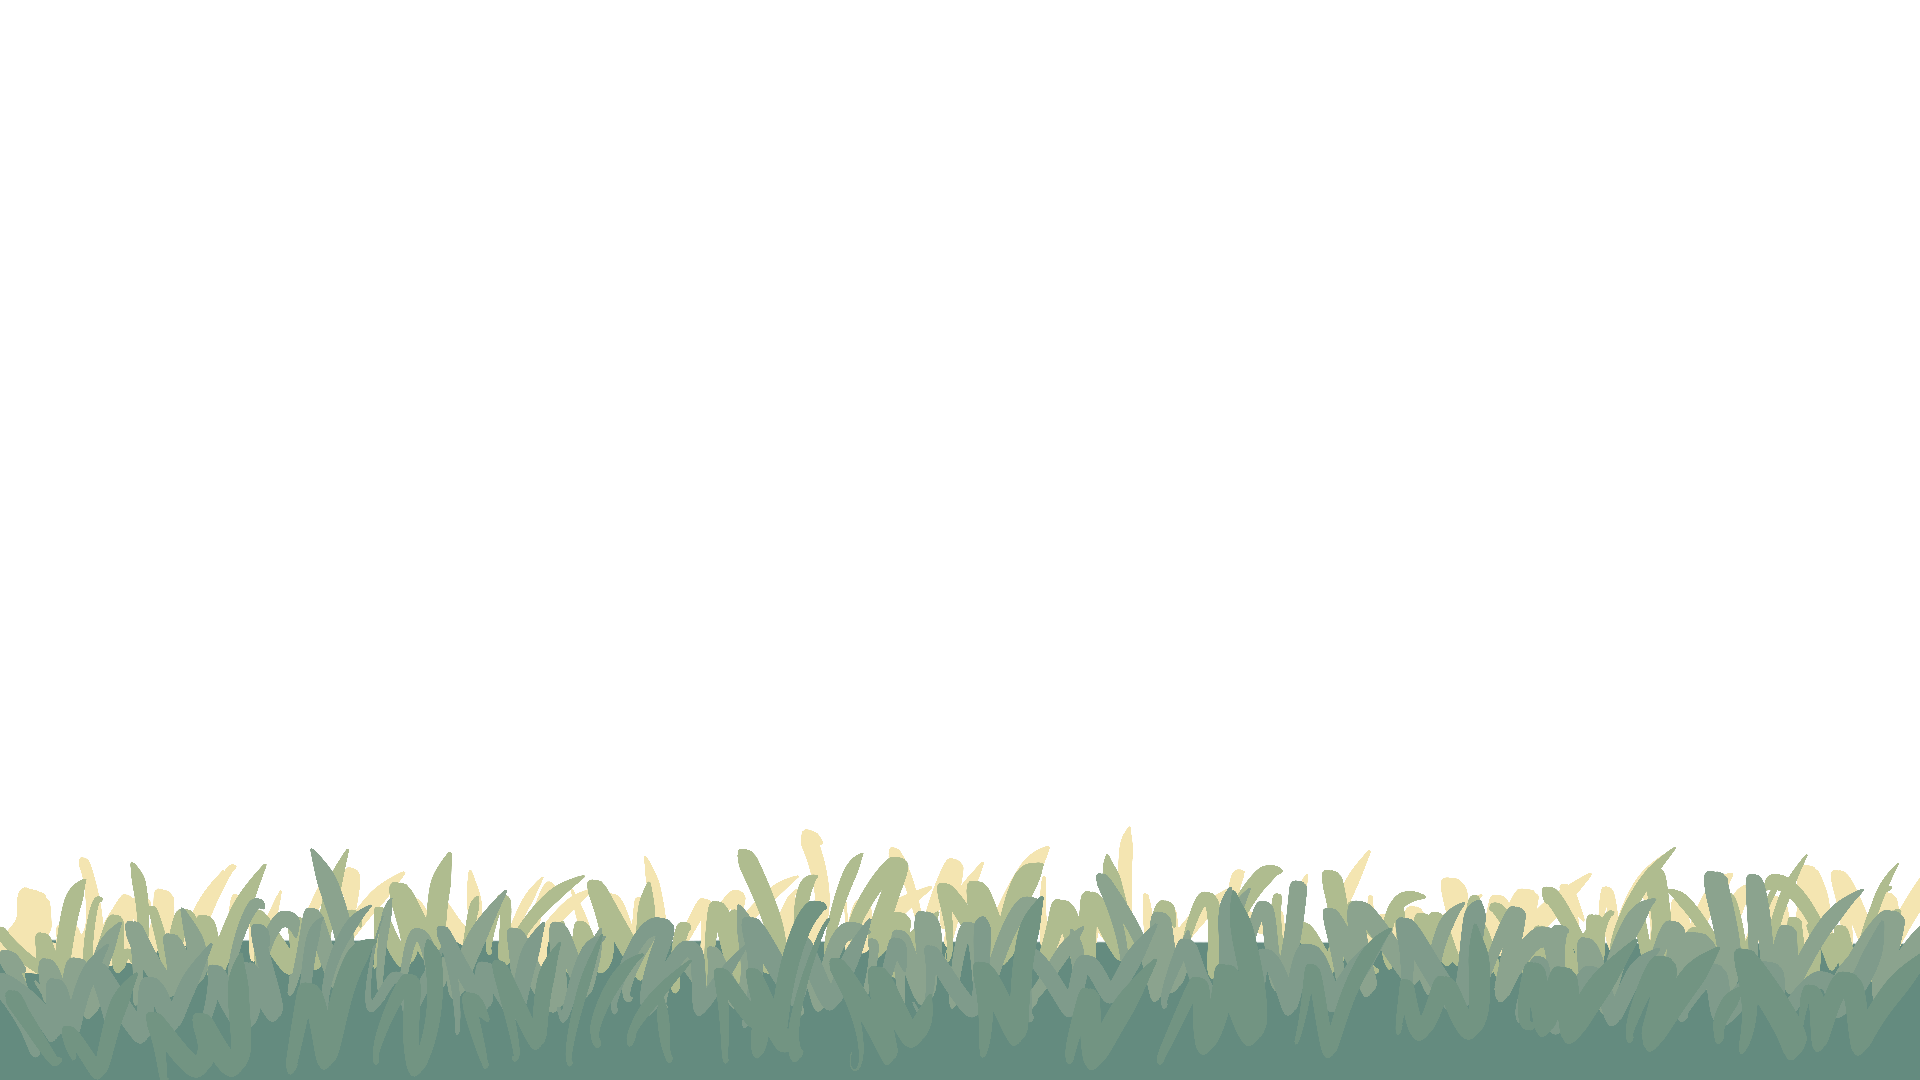
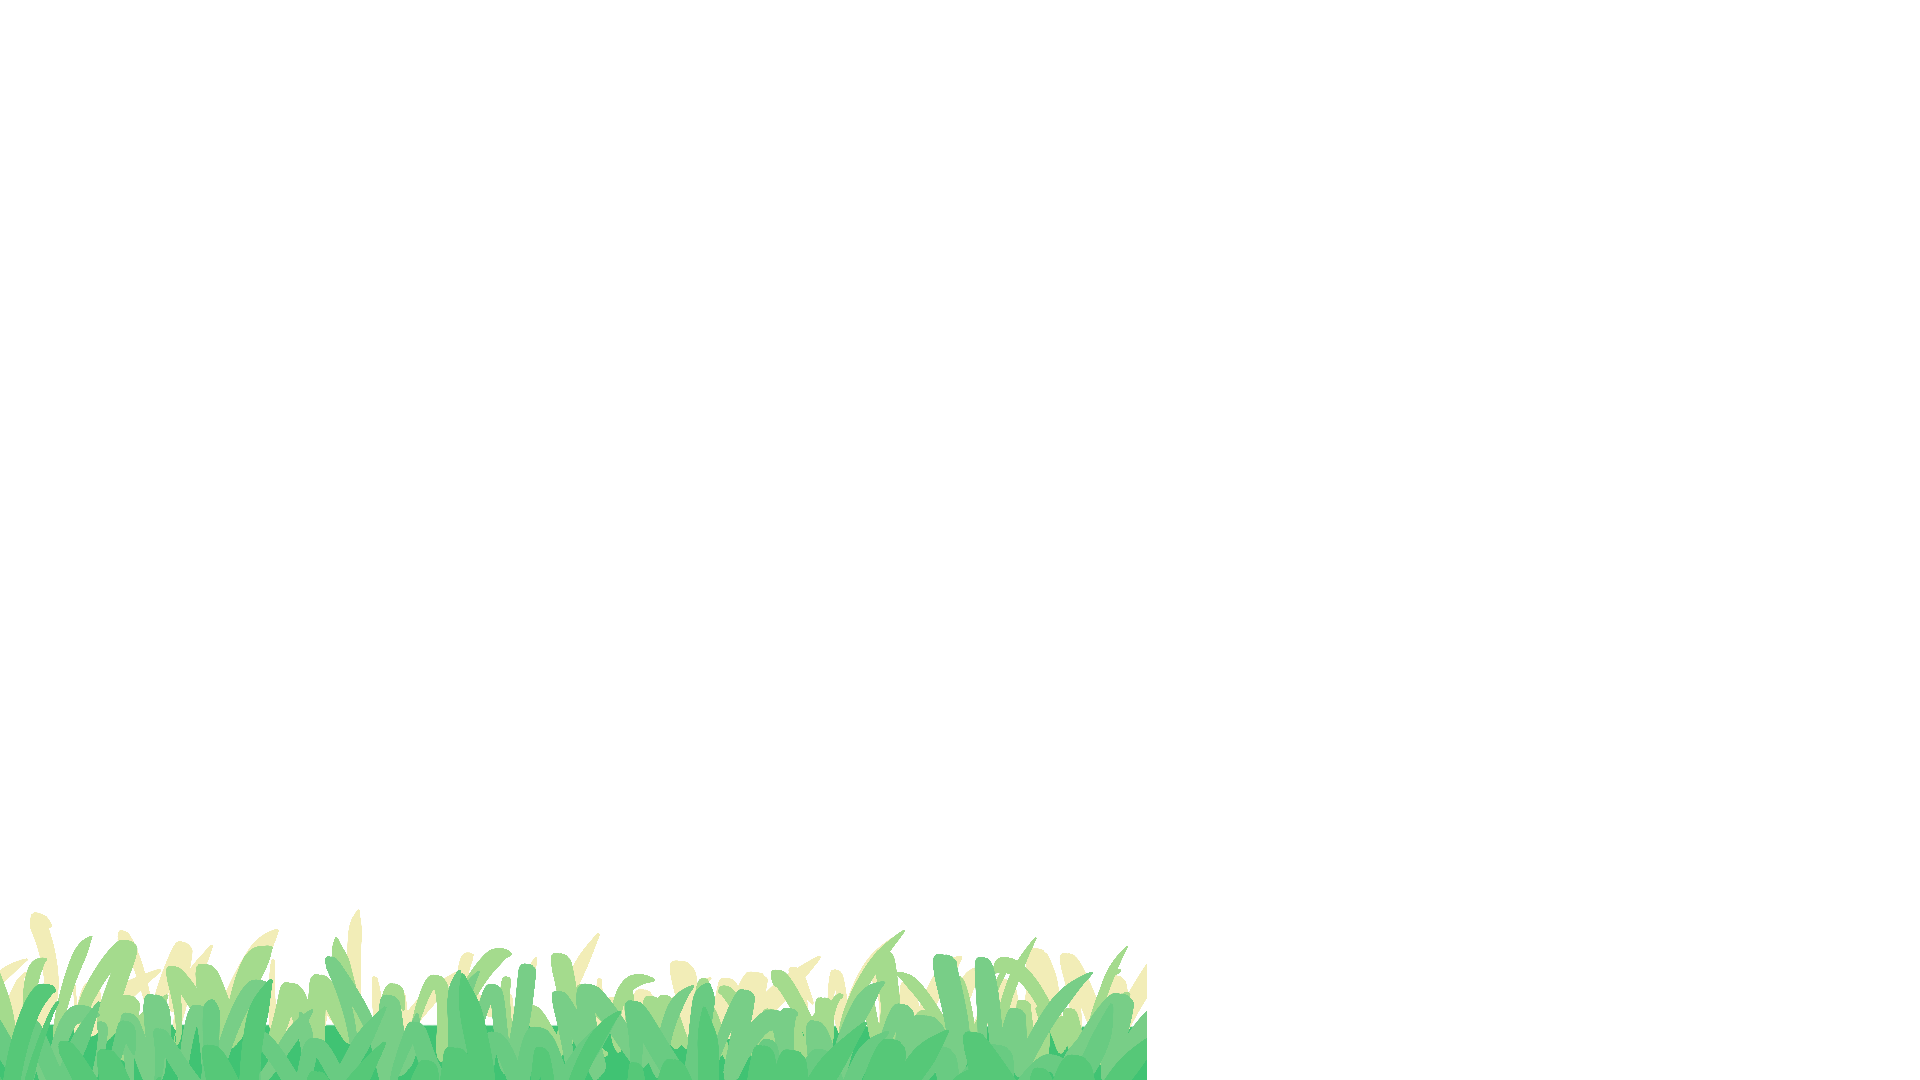
WIP add assets for platform 1 and 2.

Changed region(s): [[0.0, 0.7639, 1.0, 1.0]]

diff --git a/play/play.go b/play/play.go
@@ -33,6 +33,7 @@ type scene struct {
 	idleReversedImg  *utils.ImageWithOptions
 	greenPlatformImg *utils.ImageWithOptions
 	bg               *utils.ImageWithOptions
+	rock1Img          *utils.ImageWithOptions
 }
 
 var Scene = &scene{}
@@ -41,7 +42,7 @@ var _ game.Scene = Scene
 func (s *scene) Init() error {
 	s.space = resolv.NewSpace(1920, 1080, 16, 16)
 
-	s.space.Add(resolv.NewObject(0, 1080-184, 1920, 100, "platform"))
+	s.space.Add(resolv.NewObject(0, 1080-184, 1920-773, 100, "platform"))
 	s.space.Add(resolv.NewObject(0, 0, 16, 1080, "wall"))
 
 	s.player = resolv.NewObject(200, 1080-400, 95, 100)
@@ -67,12 +68,13 @@ func (s *scene) Init() error {
 	}
 	colorm.DrawImage(s.idleReversedImg.Image, s.idleImg.Image, c, nil)
 
-	img, err = assets.Image("GreenPlatform1-grass.png")
+	img, err = assets.Image("GreenPlatform1-grass1.png")
 	if err != nil {
 		return err
 	}
 	s.greenPlatformImg = &utils.ImageWithOptions{
 		Image: img,
+		Options: &ebiten.DrawImageOptions{},
 	}
 
 	s.bg = &utils.ImageWithOptions{
@@ -88,11 +90,20 @@ func (s *scene) Init() error {
 		return err
 	}
 	s.bg.Image.DrawImage(img, nil)
-	img, err = assets.Image("GreenPlatform1-trees.png")
+	img, err = assets.Image("BGtrees.png")
 	if err != nil {
 		return err
 	}
 	s.bg.Image.DrawImage(img, nil)
+
+    img, err = assets.Image("rock1.png")
+	if err != nil {
+		return err
+	}
+	s.rock1Img = &utils.ImageWithOptions{
+		Image: img,
+		Options: &ebiten.DrawImageOptions{},
+	}
 
 	return nil
 }
@@ -113,8 +124,9 @@ func (s *scene) Draw(screen *ebiten.Image) {
 	}
 	playerImg.Options.GeoM.Translate(s.player.X, s.player.Y)
 	playerImg.Draw(screen)
-
+    s.rock1Img.Options.GeoM.Apply(1080-171, 70)
 	s.greenPlatformImg.Draw(screen)
+	s.rock1Img.Draw(screen)
 }
 
 func (s *scene) Update() error {
